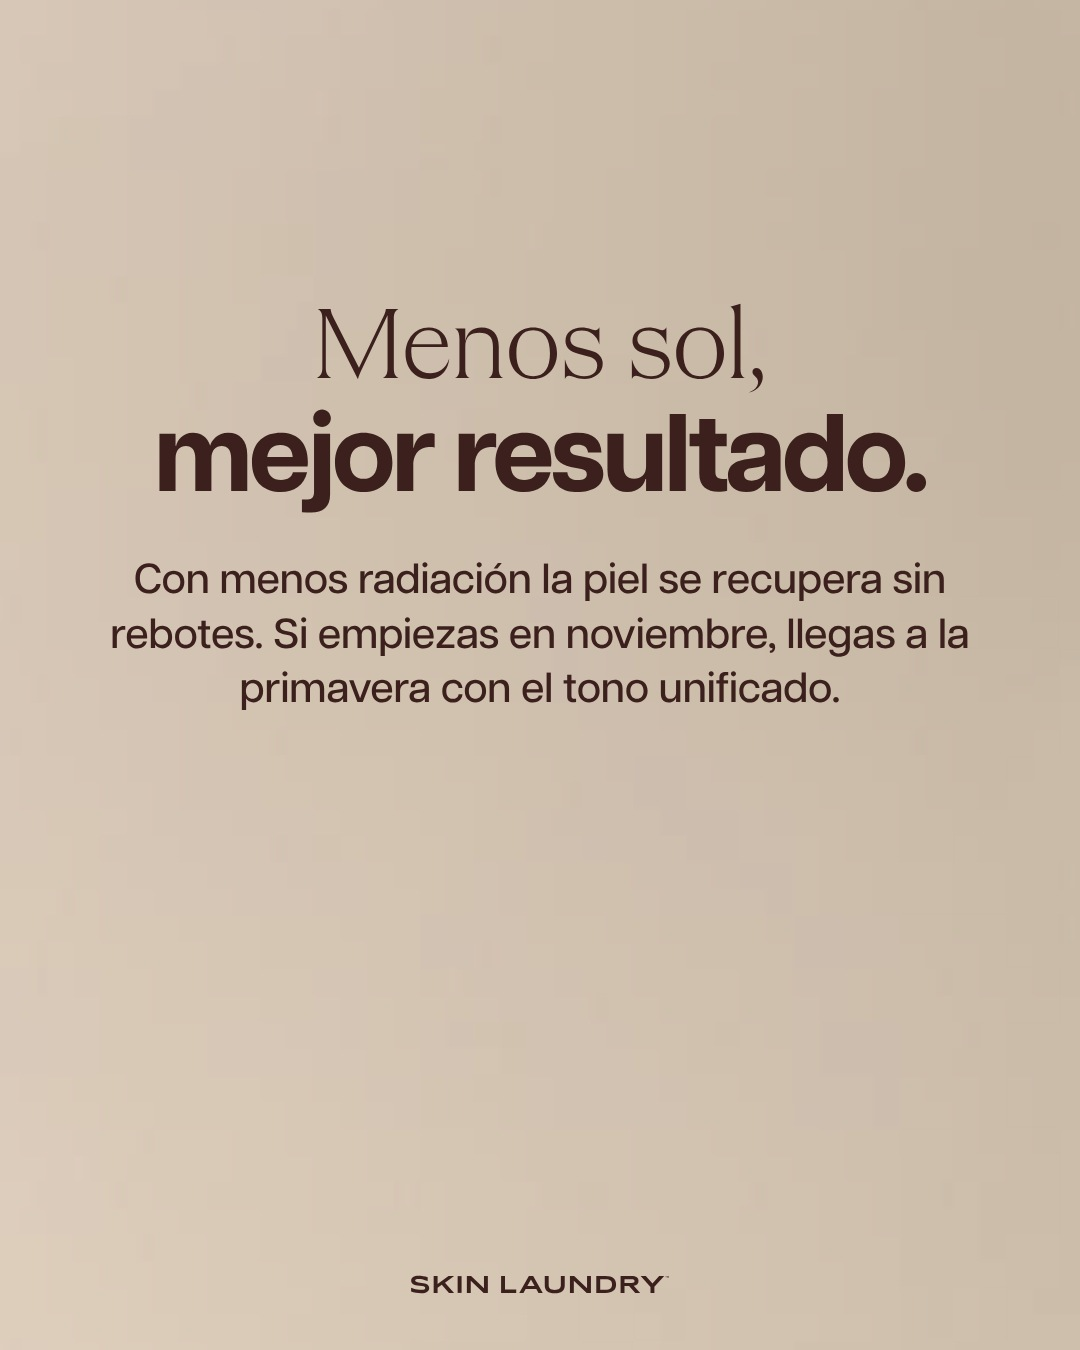
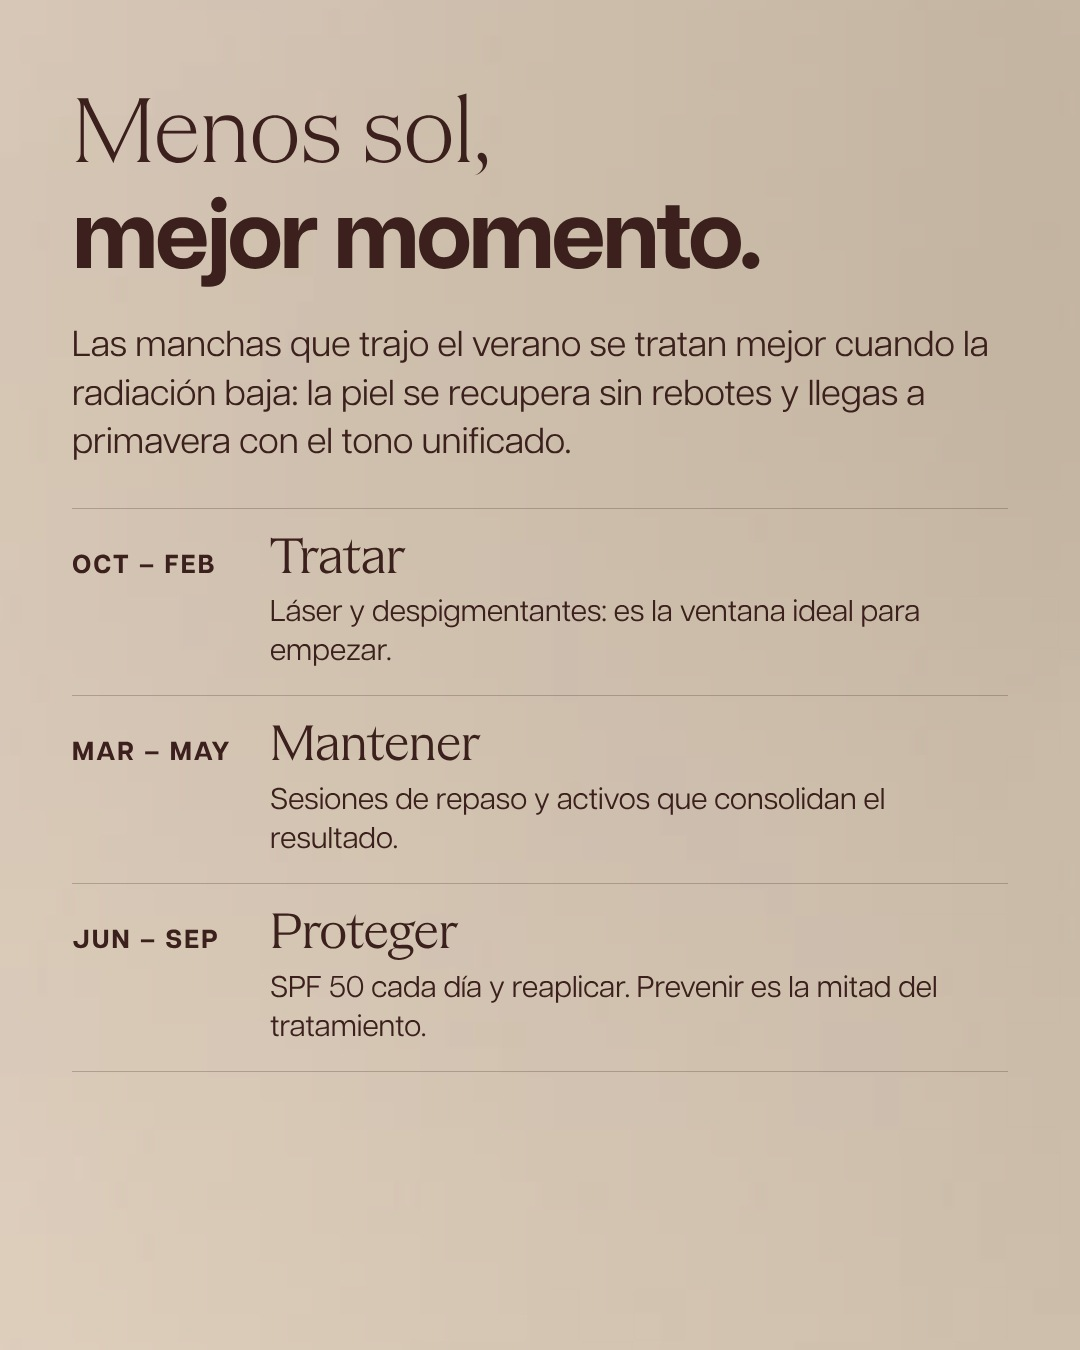
Skin Laundry: post 30 con los textos originales y diseño limpio
Claude-Session: https://claude.ai/code/session_01JZ4qrB4vBJCM1LriYw1bZU

diff --git a/public/pitch/skin-laundry-calendario/noviembre/index.html b/public/pitch/skin-laundry-calendario/noviembre/index.html
@@ -840,9 +840,9 @@ Ven a conocernos. Tienes toda la información en el enlace de la bio.
 Treat. Glow. Repeat.
 #SkinLaundry #SkinLaundryBarcelona #LaserFacial #TreatGlowRepeat` },
 
-{ d:30, formato:"Carrusel", estado:"listo", media:"/pitch/skin-laundry-calendario/noviembre/img/d30_1_v2.jpg?v=11191445", slides:["/pitch/skin-laundry-calendario/noviembre/img/d30_1_v2.jpg?v=11191445","/pitch/skin-laundry-calendario/noviembre/img/d30_2_v2.jpg?v=11191445","/pitch/skin-laundry-calendario/noviembre/img/d30_3_v2.jpg?v=11191445"], cubo:"Láser", tema:"Manchas", hora:"19:30h",
-  nota:"Rehecho en 3 slides: portada, por qué ahora y calendario del año", pieza:"Manchas en otoño: cuándo empezar a tratarlas", base:"Doc §3", cta:"Reserva tu valoración",
-  idea:["Portada: «Las manchas del verano se tratan ahora»","Menos sol, mejor resultado","Tu piel, todo el año: tratar · mantener · proteger + Reserva tu valoración"],
+{ d:30, formato:"Carrusel", estado:"listo", media:"/pitch/skin-laundry-calendario/noviembre/img/d30_1_v2.jpg?v=11191450", slides:["/pitch/skin-laundry-calendario/noviembre/img/d30_1_v2.jpg?v=11191450","/pitch/skin-laundry-calendario/noviembre/img/d30_2_v2.jpg?v=11191450","/pitch/skin-laundry-calendario/noviembre/img/d30_3_v2.jpg?v=11191450","/pitch/skin-laundry-calendario/noviembre/img/d30_4_v2.jpg?v=11191450"], cubo:"Láser", tema:"Manchas", hora:"19:30h",
+  nota:"Mismos textos que el diseño original, sin elementos de plantilla · pendiente precio de Cosmelan y del Pack Adiós Melasma (van sin precio en la slide 3)", pieza:"Manchas en otoño: cuándo empezar a tratarlas", base:"Doc §3", cta:"Reserva tu valoración",
+  idea:["Portada: «Manchas en otoño: cuándo empezar a tratarlas»"],
   story:["Story de diseño propio","Enlace a añadir desde Instagram: Reserva tu valoración"],
   copy:`Las manchas del verano se tratan mejor ahora, cuando hay menos sol.
 Con menos radiación la piel se recupera sin rebotes, y si empiezas en noviembre llegas a la primavera con el tono unificado.
